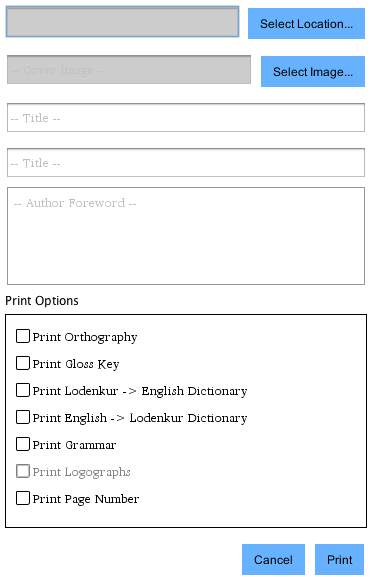
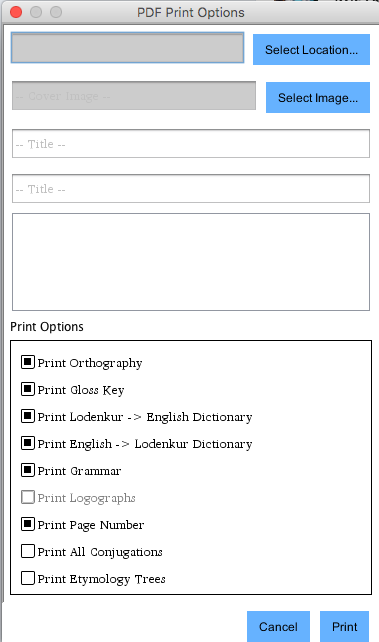
Supplemental to #503.

Changed region(s): [[0.0, 0.0, 1.0, 1.0], [0.3235, 0.6239, 0.6765, 0.7487]]

diff --git a/docs/readme.html b/docs/readme.html
@@ -1063,8 +1063,15 @@
                             functionality.<br>
                             <br>
                             The Print Page Number option will add a footer to your document which
-                            gives current and total page count for the entirety of the document.
-                            <br></div>
+                            gives current and total page count for the entirety of the document.<br>
+                            <br>
+                            The Print All Conjugations option will print a labeled list of all 
+                            conjugations under the definitions of words which have them as 
+                            appropriate for their part of speech.<br>
+                            <br>
+                            The Print Etymology Trees option will print graphical etymology trees 
+                            for all words which have etymologies defined.<br>
+                        </div>
 
                         <a name="IPA_WINDOW"></a><h1>Interactive IPA Window</h1>
                         <br>

diff --git a/src/PolyGlot/PLanguageStats.java b/src/PolyGlot/PLanguageStats.java
@@ -228,13 +228,13 @@ public class PLanguageStats {
 
         ret += typesPie.getBuildHTML();
         ret += charStatBar.getBuildHTML();
-
+        
         ret += "    </script>\n"
                 + "  </head>\n"
-                + "  <body>\n"
-                + "    <center style=\"font-family:Kukun_Linear_A;\">---LANGUAGE STAT REPORT---</center><br><br>";
+                + "  <body style=\"font-family:" + core.getPropertiesManager().getCharisUnicodeFont().getFamily() + ";\">\n"
+                + "    <center>---LANGUAGE STAT REPORT---</center><br><br>";
 
-        ret += formatPlain("Count of words in conlang lexicon: " + wordCount + "<br><br>");
+        ret += formatPlain("Count of words in conlang lexicon: " + wordCount + "<br><br>", core);
 
         ret += typesPie.getDisplayHTML();
 
@@ -242,7 +242,7 @@ public class PLanguageStats {
         
         // buid grid of 2 letter combos
         char[] alphaGrid = core.getPropertiesManager().getAlphaPlainText().toCharArray();
-        ret += formatPlain("Heat map of letter combination frequency:<br>");
+        ret += formatPlain("Heat map of letter combination frequency:<br>", core);
         ret += "<table border=\"1\">";
         ret += "<tr><td></td>";
         for (char topRow : alphaGrid) {
@@ -262,26 +262,26 @@ public class PLanguageStats {
                 ret += "<td bgcolor=\"#" + Integer.toHexString(red)
                         + Integer.toHexString(blue) + Integer.toHexString(blue) + "\")>"
                         + formatCon(Character.toString(x) + Character.toString(y), core) + formatPlain(":"
-                        + comboValue.toString()) + "</td>";
+                        + comboValue.toString(), core) + "</td>";
             }
             ret += "</tr>";
         }
-        ret += "</table>" + formatPlain("<br><br>");
+        ret += "</table>" + formatPlain("<br><br>", core);
 
         // buid grid of 2 phoneme combos if no pronunciation recursion
         if (!core.getPronunciationMgr().isRecurse()) {
-            ret += formatPlain("Heat map of phoneme combination frequency:<br>");
+            ret += formatPlain("Heat map of phoneme combination frequency:<br>", core);
             ret += "<table border=\"1\">";
-            ret += "<tr>" + formatPlain("<td></td>");
+            ret += "<tr>" + formatPlain("<td></td>", core);
             Iterator<PronunciationNode> procIty = core.getPronunciationMgr().getPronunciations().iterator();
             while (procIty.hasNext()) {
-                ret += "<td>" + formatPlain(formatPlain(procIty.next().getPronunciation())) + "</td>";
+                ret += "<td>" + formatPlain(formatPlain(procIty.next().getPronunciation(), core), core) + "</td>";
             }
             ret += "</tr>";
             procIty = core.getPronunciationMgr().getPronunciations().iterator();
             while (procIty.hasNext()) {
                 PronunciationNode y = procIty.next();
-                ret += "<tr><td>" + formatPlain(y.getPronunciation()) + "</td>";
+                ret += "<tr><td>" + formatPlain(y.getPronunciation(), core) + "</td>";
                 Iterator<PronunciationNode> procItx = core.getPronunciationMgr().getPronunciations().iterator();
                 while (procItx.hasNext()) {
                     PronunciationNode x = procItx.next();
@@ -294,22 +294,22 @@ public class PLanguageStats {
                     ret += "<td bgcolor=\"#" + Integer.toHexString(red)
                             + Integer.toHexString(blue) + Integer.toHexString(blue) + "\")>"
                             + formatPlain(x.getPronunciation() + y.getPronunciation() + ":"
-                                    + comboValue.toString()) + "</td>";
+                                    + comboValue.toString(), core) + "</td>";
                 }
                 ret += "</tr>";
             }
             ret += "</table>";
             
             // build display for phoneme count if no pronunciation recursion
-            ret += formatPlain(" Breakdown of phonemes counted across all words:<br>");
+            ret += formatPlain(" Breakdown of phonemes counted across all words:<br>", core);
             Iterator<PronunciationNode> procLoop = core.getPronunciationMgr().getPronunciations().iterator();
             while (procLoop.hasNext()) {
                 PronunciationNode curNode = procLoop.next();
                 ret += formatPlain(curNode.getPronunciation() + " : "
                         + (phonemeCount.containsKey(curNode.getPronunciation())
-                        ? phonemeCount.get(curNode.getPronunciation()) : formatPlain("0")) + "<br>");
+                        ? phonemeCount.get(curNode.getPronunciation()) : formatPlain("0", core)) + "<br>", core);
             }
-            ret += formatPlain("<br><br>");
+            ret += formatPlain("<br><br>", core);
         }
 
         return ret;

diff --git a/src/PolyGlot/ManagersCollections/ConWordCollection.java b/src/PolyGlot/ManagersCollections/ConWordCollection.java
@@ -710,10 +710,11 @@ public class ConWordCollection extends DictionaryCollection {
      * Formats in HTML to a plain font to avoid conlang font
      *
      * @param toPlain text to make plain
+     * @param core
      * @return text in plain tag
      */
-    public static String formatPlain(String toPlain) {
-        String defaultFont = "face=\"" + Font.SANS_SERIF + "\"";
+    public static String formatPlain(String toPlain, DictCore core) {
+        String defaultFont = "face=\"" + core.getPropertiesManager().getCharisUnicodeFont().getFamily() + "\"";
         return "<font " + defaultFont + ">" + toPlain + "</font>";
     }
 

diff --git a/src/PolyGlot/ManagersCollections/PropertiesManager.java b/src/PolyGlot/ManagersCollections/PropertiesManager.java
@@ -444,7 +444,7 @@ public class PropertiesManager {
     public String buildPropertiesReport() {
         String ret = "";
 
-        ret += ConWordCollection.formatPlain("Language Name: " + langName + "<br><br>");
+        ret += ConWordCollection.formatPlain("Language Name: " + langName + "<br><br>", core);
 
         return ret;
     }
